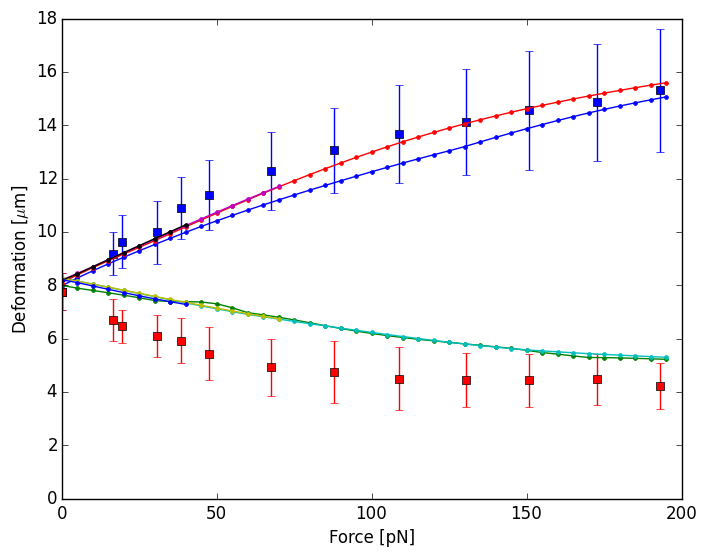
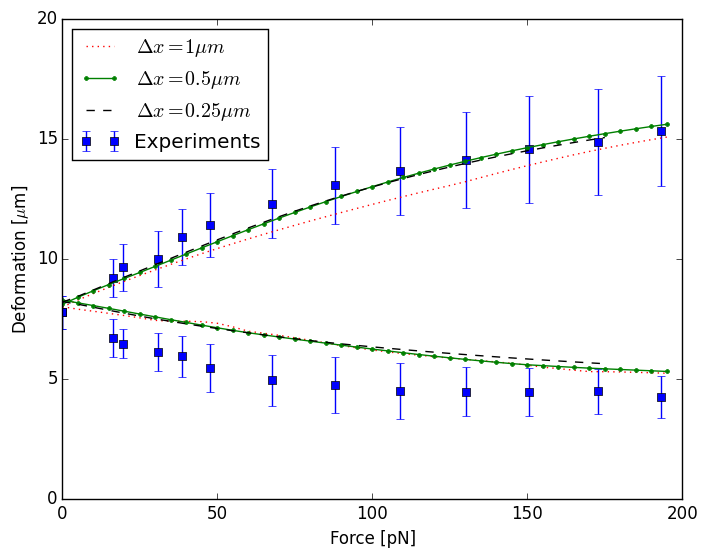
Changed makefile to work on hpc2n

diff --git a/progs/deformation_test/plotDeformation.py b/progs/deformation_test/plotDeformation.py
@@ -2,7 +2,9 @@ import numpy as np
 import glob
 import matplotlib.pyplot as plt
 
-folders = ['tweezers_G6e-06_Kb4e-18_dx1e-06', 'tweezers_G6e-06_Kb4e-18_dx5e-07', 'tweezers_G6e-06_Kb4e-18_dx3e-07', 'tweezers_G6e-06_Kb4e-18_dx2.5e-07']
+folders = ['tweezers_G6e-06_Kb4e-18_dx1e-06', 'tweezers_G6e-06_Kb4e-18_dx5e-07', 'tweezers_G6e-06_Kb4e-18_dx2.5e-07']
+legends = ['$\Delta x = 1\ \mu m$', '$\Delta x = 0.5\ \mu m$', '$\Delta x = 0.25\ \mu m$']
+styles = ['r:', 'g.-', 'k--']
 
 # Read experimental data
 expData = np.genfromtxt('mills_optical_tweezer_final.txt', delimiter=',')
@@ -12,12 +14,12 @@ expDxErr = expData[:, 4] - expData[:, 3]
 expDyz = expData[:, 1]
 expDyzErr = expData[:, 1] - expData[:, 2]
 
-cmpPlot = plt.figure()
-plt.errorbar(expForce, expDx, yerr=expDxErr, fmt='sb')
-plt.errorbar(expForce, expDyz, yerr=expDyzErr,fmt='sr')
+cmpPlot, ax = plt.subplots(figsize=(6,6))
+plt.errorbar(expForce, expDx, yerr=expDxErr, fmt='sb', label='Experiments')
+plt.errorbar(expForce, expDyz, yerr=expDyzErr,fmt='sb')
 
 # Read simulation data
-for folder in folders:
+for folder, legend, linestyle in zip(folders, legends, styles):
 	files = glob.glob(folder +'/deformation*.txt')
 
 	data = None
@@ -55,10 +57,16 @@ for folder in folders:
 	simForce[0] = 0.
 	
 	plt.figure(cmpPlot.number)
-	plt.plot(simForce, simDx, '.-', label='Dx')
-	plt.plot(simForce, simDyz, '.-', label='Dyz')
-plt.ylim([0, 18])
+	plt.plot(simForce, simDx, linestyle, label=legend)
+	plt.plot(simForce, simDyz, linestyle)
+plt.legend(loc='upper left')
+#xmin,xmax = ax.get_xlim()
+#ymin,ymax = ax.get_ylim()
+#asp = abs((xmax-xmin)/(ymax-ymin))
+#ax.set_aspect(asp)
+
+plt.ylim([0, 20])
 plt.xlim([0, 200])
-plt.xlabel('Force [pN]')
-plt.ylabel('Deformation [$\mu$m]')
-plt.savefig('deformationComparison.png', bbox_inches='tight')
+plt.xlabel('Force [pN]', fontsize=16)
+plt.ylabel('Axis length [$\mu$m]', fontsize=16)
+plt.savefig('deformationComparison.pdf', bbox_inches='tight')

diff --git a/src/fsi/ParticleBase.h b/src/fsi/ParticleBase.h
@@ -30,9 +30,9 @@ template<class T> class Boundary;
 // Node information object
 template<class T>
 struct Vertex {
-	Array<T, 3> pos;
-	Array<T, 3> vel;
-	Array<T, 3> force;
+	Array<T, 3> pos;	// Node position (world frame)
+	Array<T, 3> vel;	// Fluid velocity
+	Array<T, 3> force;	// Node force
 };
 
 template<class T>

diff --git a/src/fsi/DeformableCapsule.h b/src/fsi/DeformableCapsule.h
@@ -47,7 +47,6 @@ public:
 	virtual plint get_type_id() const { return type_id; }
 
 	virtual void compute_forces();
-	virtual void compute_wall_interaction_forces(const Boundary<T> &);
 	void relax_nodes(T);
 	void print_energies(T, std::ostream &) const;
 
